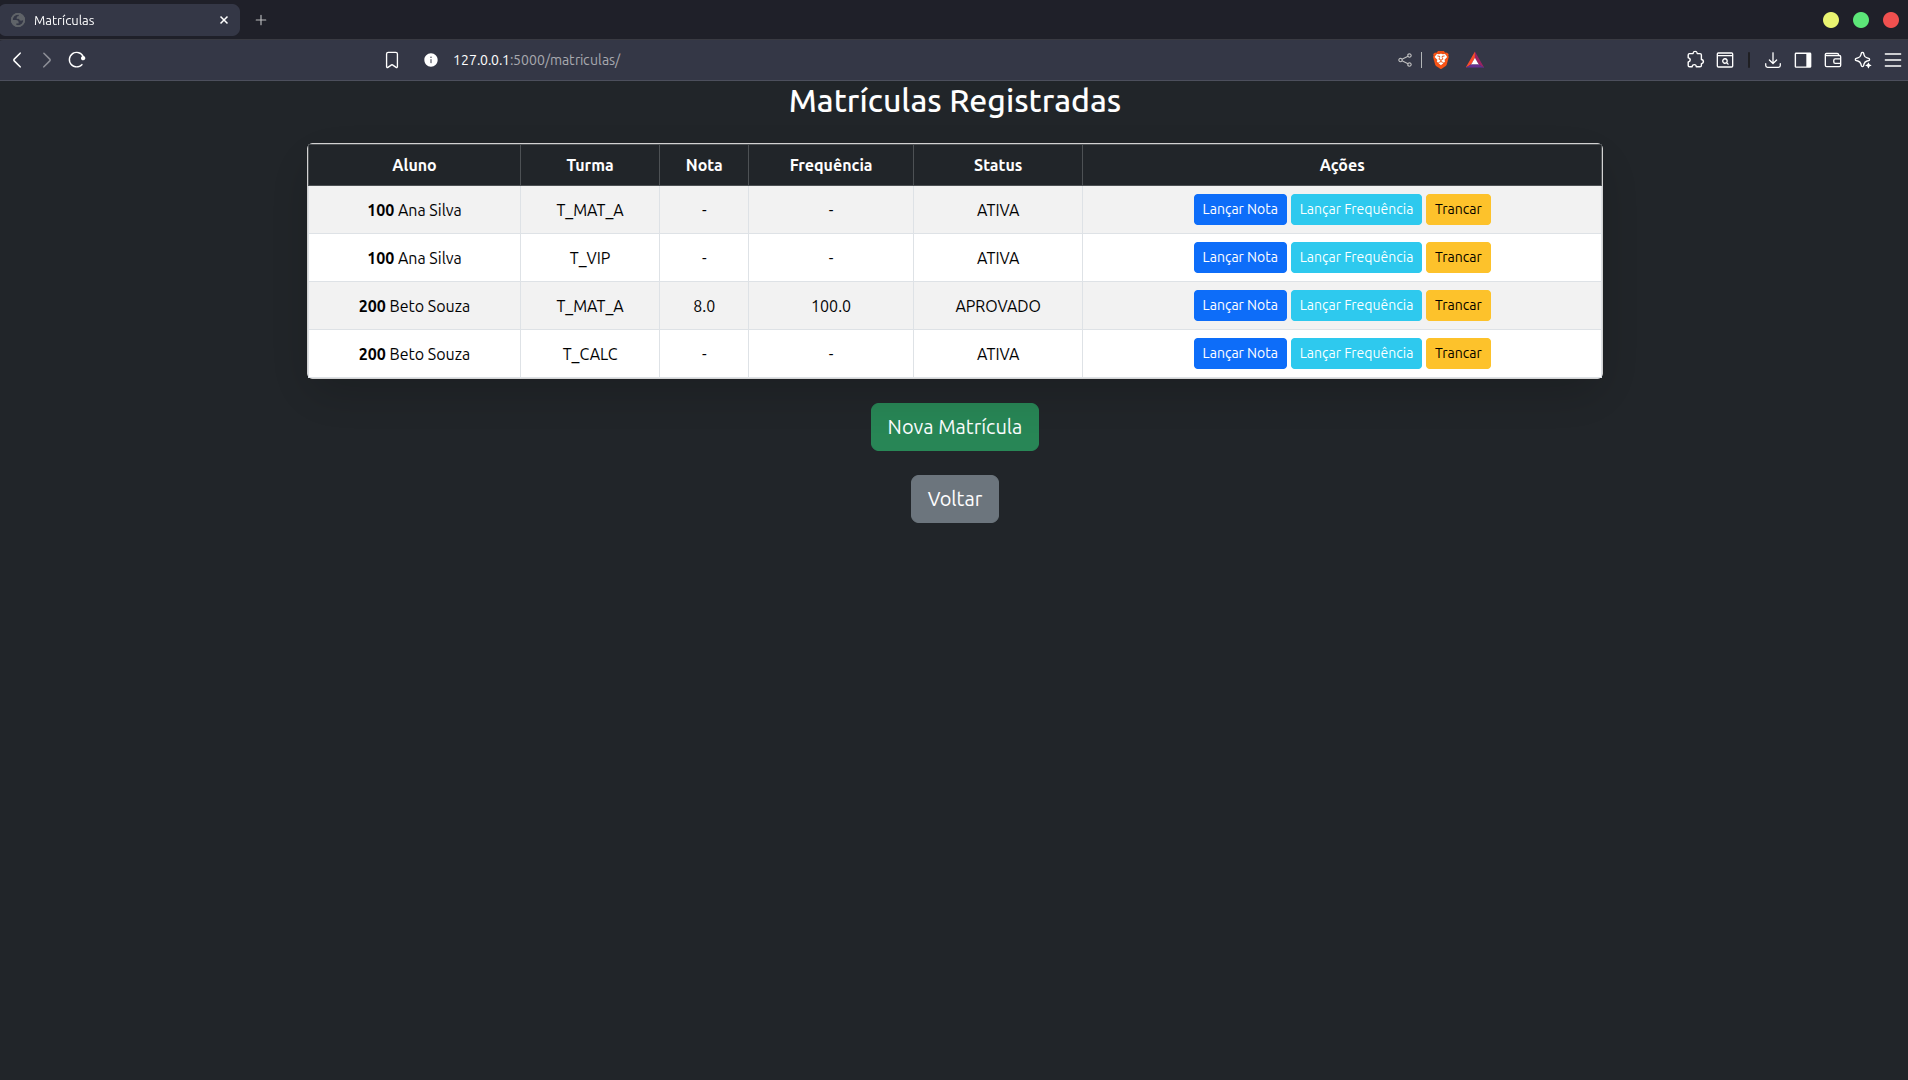
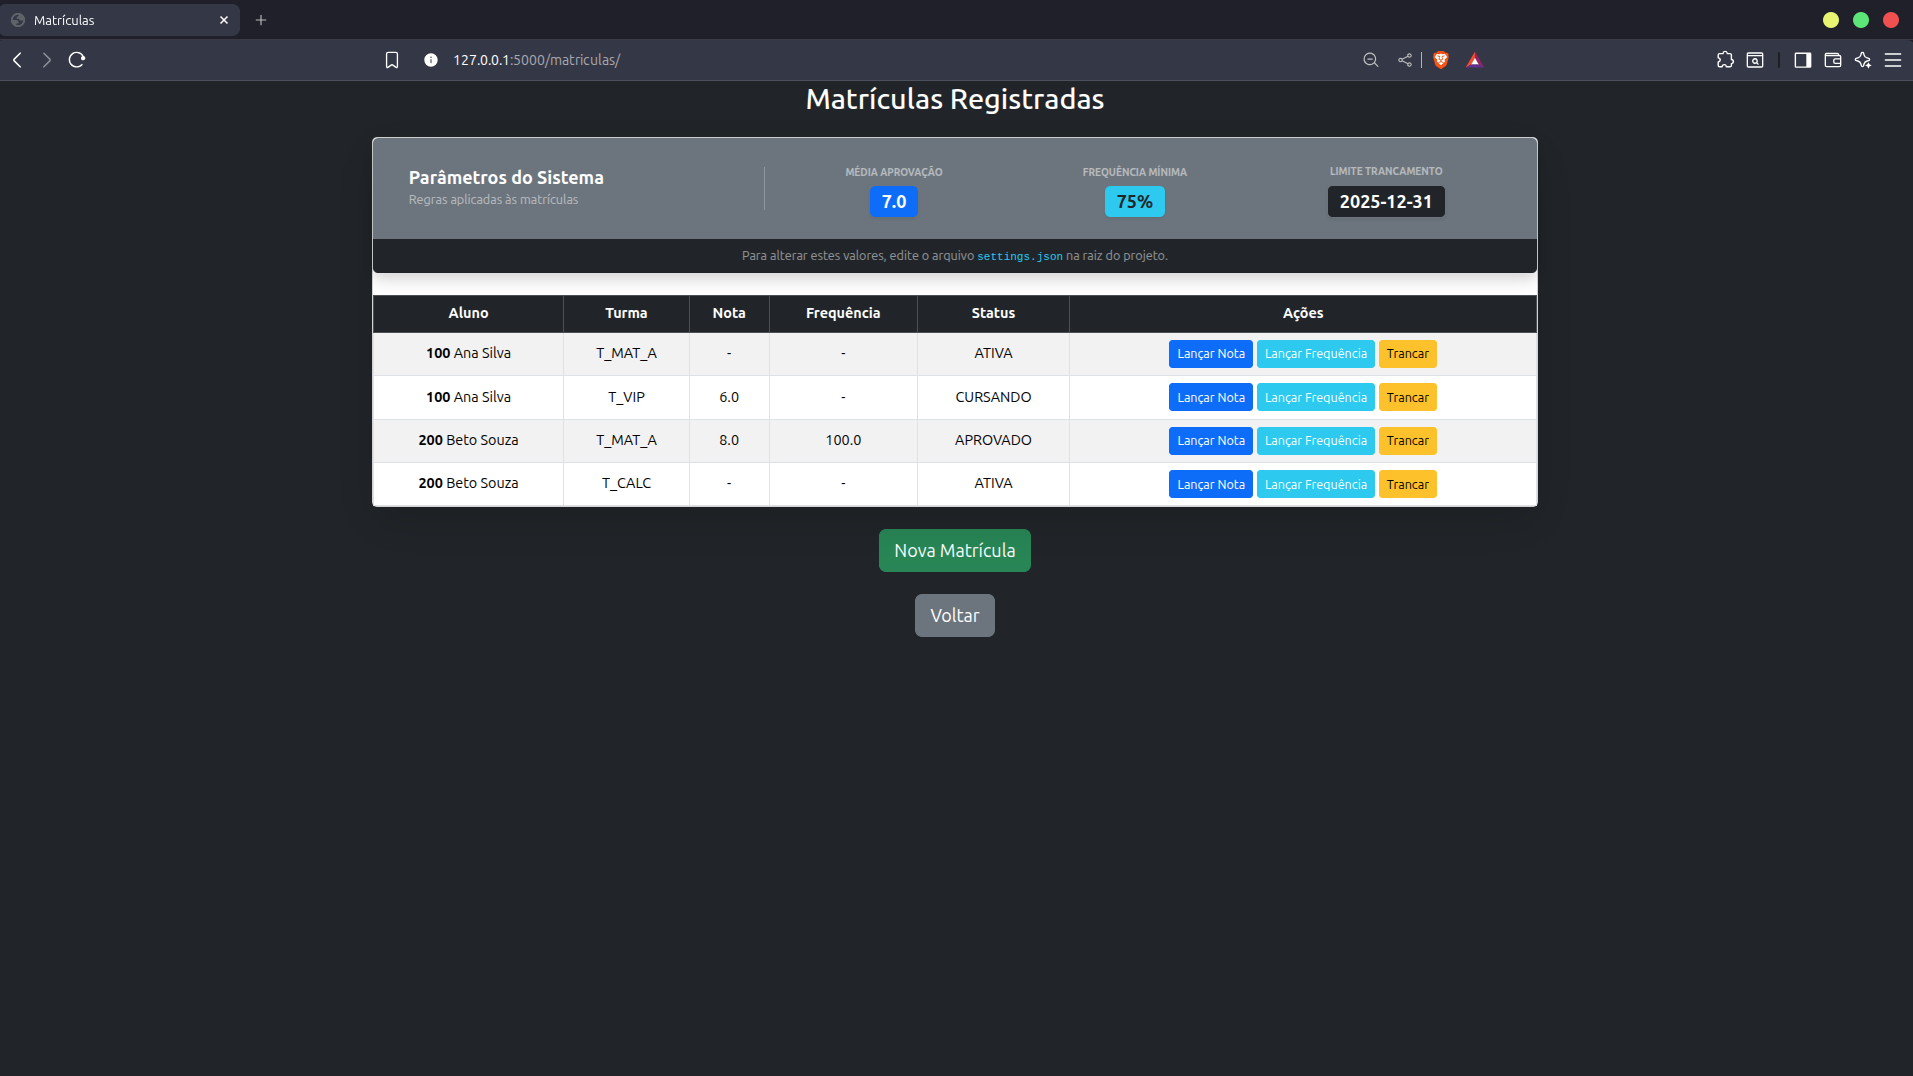
Corrigindo bugs finais da interface

diff --git a/src/models/matricula.py b/src/models/matricula.py
@@ -49,7 +49,7 @@ Responsabilidades:
     def nota(self, valor):
         if valor is not None:
             try:
-                # --- CORREÇÃO: Força virar número antes de comparar ---
+                # Força virar número antes de comparar
                 valor_float = float(valor)
             except ValueError:
                 raise ValueError("A nota deve ser um número válido.")
@@ -68,7 +68,7 @@ Responsabilidades:
     def frequencia(self, valor):
         if valor is not None:
             try:
-                # --- CORREÇÃO: Força virar número antes de comparar ---
+                # Força virar número antes de comparar
                 valor_float = float(valor)
             except ValueError:
                 raise ValueError("A frequência deve ser um número válido.")
@@ -81,12 +81,17 @@ Responsabilidades:
             self.__frequencia = None
 
     def situacao(self):
-        if self.nota is None or self.frequencia is None:
-            return "CURSANDO"
-        
-        if self.frequencia < config.frequencia_minima:
+        #Verifica Reprovação por Frequência
+        # Se já tem frequência lançada e é baixa, reprova na hora, 
+        # mesmo sem ter nota.
+        if self.frequencia is not None and self.frequencia < config.frequencia_minima:
             return "REPROVADO_POR_FREQUENCIA"
 
+        # Se a frequência está boa (ou vazia), verifica se falta algum dado
+        if self.nota is None or self.frequencia is None:
+            return "CURSANDO"
+
+        # Se tem tudo e frequência ok verifica a nota
         if self.nota < config.nota_minima_aprovacao:
             return "REPROVADO_POR_NOTA"
 

diff --git a/src/services/sistema.py b/src/services/sistema.py
@@ -43,15 +43,15 @@ def matricular(aluno: Aluno, turma: Turma):
     
     # Valida Status da Turma
     if turma.status != "ABERTA": 
-        raise TurmaFechadaError()
+        raise TurmaFechadaError("ERRO: Esta turma está FECHADA e não aceita matrículas.")
 
     # # Se turma não tiver vaga retorna o erro de turma fechada
     if not turma.tem_vaga(): 
-        raise TurmaLotadaError()
+        raise TurmaLotadaError(f"ERRO: Turma lotada! Vagas: {turma.vagas}")
 
     #  Se turma tiver um choque de horário a se matricula na turma retorna o erro de Choque de horário
     if aluno.tem_choque(turma): 
-        raise ChoqueHorarioError()
+        raise ChoqueHorarioError("ERRO: Choque de Horário! O aluno já tem aula neste período.")
 
     # Criar matrícula
     m = Matricula(aluno, turma) 
